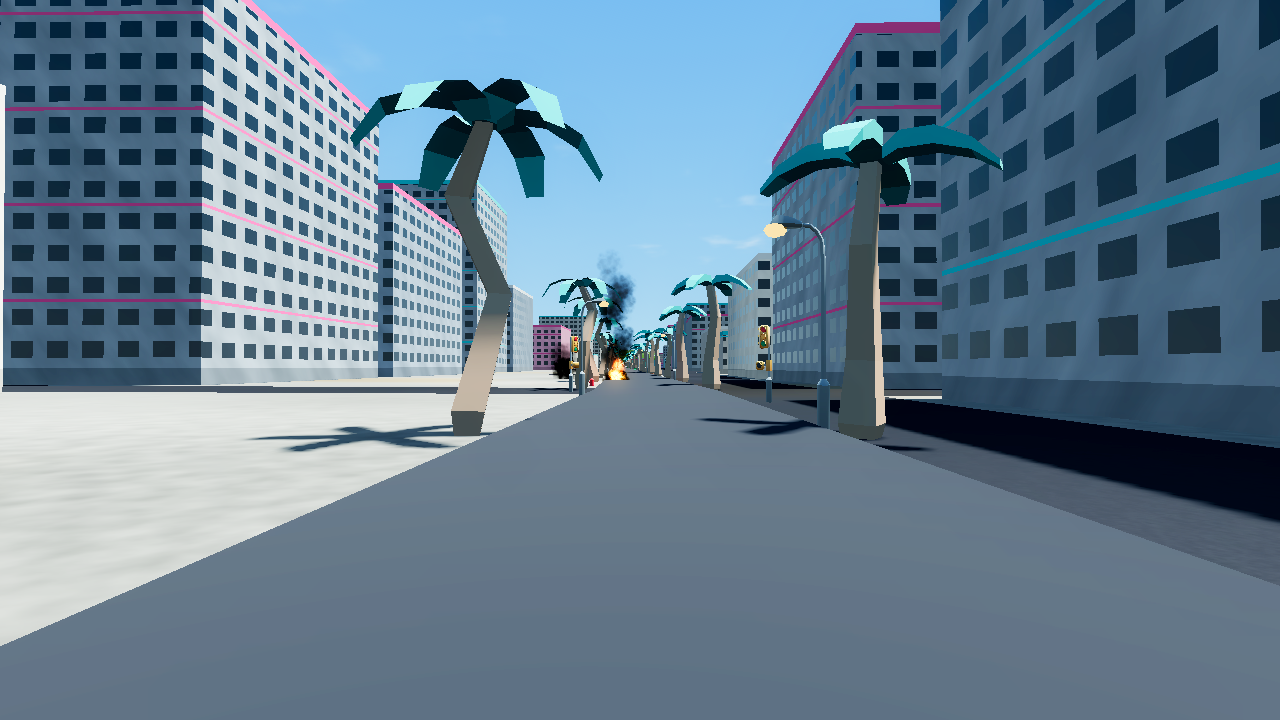
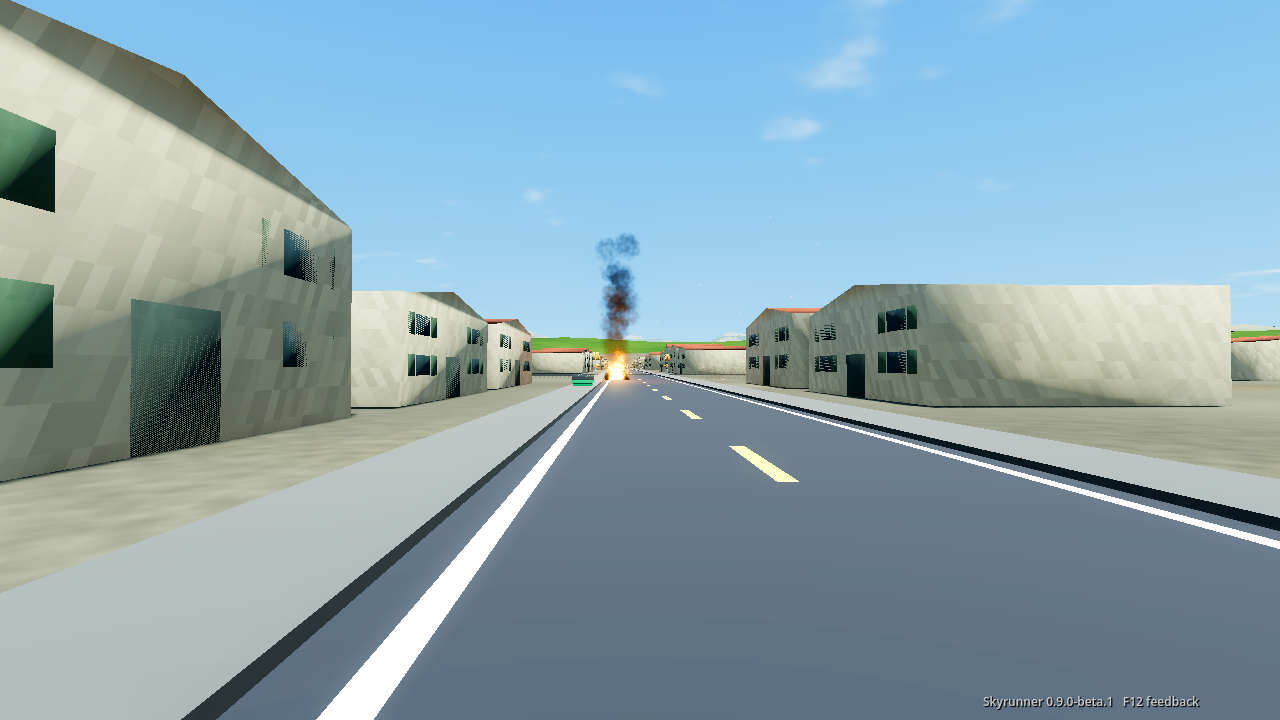
Road paint and town pavements: draw the lane lines, face the strips up (#546)
The lane markings were never drawn: they were one island-wide mesh with a 2.5 km visibility range, and the range is measured to
the instance, kilometres from any street. The paint is now cut into 2 km tiles, each drawn relative to its own centre within
2.5 km. The pavements and the paint were wound counter-clockwise seen from above; their materials draw both sides and Godot
lights a back face as if it faced down, so the pavements read as dark brown earth. The strips now wind like the road ribbon.
The concrete is toned down (vertex colours are linear: 0.66 was near white in the sun), and the pavements lose their range
(they are the town's only, and one range for the town hid its far side).

tests/test_city_dress.gd: the paint and pavements face up like the road (failed on the old winding: every flat triangle down),
the paint tiles are drawn near the camera; the existing marking test reads the tiles. docs/img street-fire and street-rain
re-rendered (tools/shots/pilot_shot.gd, the same arguments as tools/screenshots.sh). Baton updated.

Claude-Session: https://claude.ai/code/session_01AjwLGzjJytcouM3PGWaCnS

diff --git a/HANDOFF.md b/HANDOFF.md
@@ -55,9 +55,9 @@ write it down. Nothing else is needed after a cut-off: the baton says where work
 | | |
 |---|---|
 | **Holder** | Claude, alone: Codex is unavailable (owner, 7 November, D-96). Claude merges its own PRs, risk class included, under D-91 (CI green on the head, every finding fixed and answered, its own diff read), and covers Codex's QA, UX/UI and dialogue lanes meanwhile. |
-| **Task** | The owner's 10 November order of work: the open mechanics, one PR each on `ccr-959fb031-mf68as` (restarted from `main` after each merge): ammunition stage 1 (crates and the ladder, DESIGN 77), then loop idea 6 (price wars and supply cuts), loop idea 7 (investments with a return), the takeover beat (D-09/D-78/D-35), the later stock rework parts (bulk sales by grade, the gun dealer on the pickup flow, rivals intercepting pickups); then gameplay additions and graphics. |
+| **Task** | The owner's 10 November order of work (D-97). Done and merged: ammunition stage 1 (#540), price wars (#541), investments (#542), the takeover (#543), the stock rework's later parts (#544), weapons and vehicles wear (#545); the road paint and pavements fix is the last open PR. Left: more gameplay additions and graphics, and the mechanics-tree artifact (updated this session). |
 | **Branches / PRs** | `ccr-959fb031-mf68as` (the cloud session's pinned branch; one PR at a time). |
-| **Next step** | Merge the open PR on green CI, restart the branch from `main`, take the next item in the Task row. |
+| **Next step** | Merge the road-paint PR on green CI. Then, from the order of work: graphics (look at the game with tools/screenshots.sh before and after), ammunition stage 2 (rounds as a good, D-61), and the open items each DESIGN section from 77 to 82 lists under "Not yet". The owner's open question: the takeover's "quarter of his cash" (DESIGN 80). |
 | **Codex task** | None: Codex is unavailable (D-96). |
 | **Watch out** | Codex's bot still posts reviews on some PRs; answer every thread before merging (`ci_then_merge` refuses an unanswered one). Breakaway holds `Session.save()` while a window is open. |
 
@@ -175,6 +175,9 @@ TTS follow-up (14 Oct): after the owner reported that the game was still invisib
 
 ## Log
 
+- **2026-11-11 - Claude, the road paint and the pavements:** the lane lines were never drawn (one island-wide paint mesh with a
+  2.5 km range measured to its far-off centre) and the pavements were wound face-down (lit from below: dark brown); paint now
+  tiled at 2 km, strips wound up like the ribbon, concrete toned down. Screenshots before and after in the PR; docs/img refreshed.
 - **2026-11-11 - Claude, weapons and vehicles wear (D-97):** `Wear`: the armoury wears with firefight rounds and shots on foot, owned
   trucks with distance; fire and speed fall to 75% at worst; `upkeep` puts them right; phone Empire > Fleet; saved (DESIGN 82).
 - **2026-11-11 - Claude, the stock rework's later parts (51):** bulk buyers pay for grade and age (`Grades.BULK`); the gun dealer

diff --git a/docs/FEATURES.md b/docs/FEATURES.md
@@ -191,6 +191,7 @@ The README has the short version; [DESIGN.md](DESIGN.md) has how each system wor
 | Look and sound | Terrain, sea, sky, vegetation, lights, fire, smoke, wet streets | Built |  |  |
 | Look and sound | Kenney/KayKit/Quaternius models, docks and downtown dress | Built |  |  |
 | Look and sound | Period vehicles and Costa Brava frontage | Built | Merged after screenshot review | #373 · #374 |
+| Look and sound | Lane paint and town pavements | Built | The lane lines were never drawn and the pavements rendered dark (fixed 11 Nov: paint in 2 km tiles, strips wound face-up) |  |
 | Look and sound | Synth sound; one radio for cockpit and car | Built | Radio redistribution rights unresolved | #175 |
 | Look and sound | Shift from low-poly towards a PS2-era look | Planned | Polygon/texture budgets need an owner call | #380 |
 | Presentation layers | Territory radio and era music | Paused |  | D-23 · D-75 |

diff --git a/docs/PROJECT_STATUS.md b/docs/PROJECT_STATUS.md
@@ -15,7 +15,7 @@ This section describes **this checkout**. Run `godot --headless --script res://t
 | Field | Source value | Meaning / source |
 |---|---|---|
 | Version | 0.9.0-beta.1 | project.godot |
-| Declared automated tests | 1679 methods in 208 test files | Compiled source inventory; this is not a test result |
+| Declared automated tests | 1681 methods in 208 test files | Compiled source inventory; this is not a test result |
 | Flying tutorial | 4 Costa Brava chapters | Campaign.CHAPTERS |
 | Main story | 12 chapters | Story.CHAPTERS; distinct from the tutorial |
 | Configured exports | Linux, Windows, macOS | Export presets; build/manual acceptance is recorded below |
